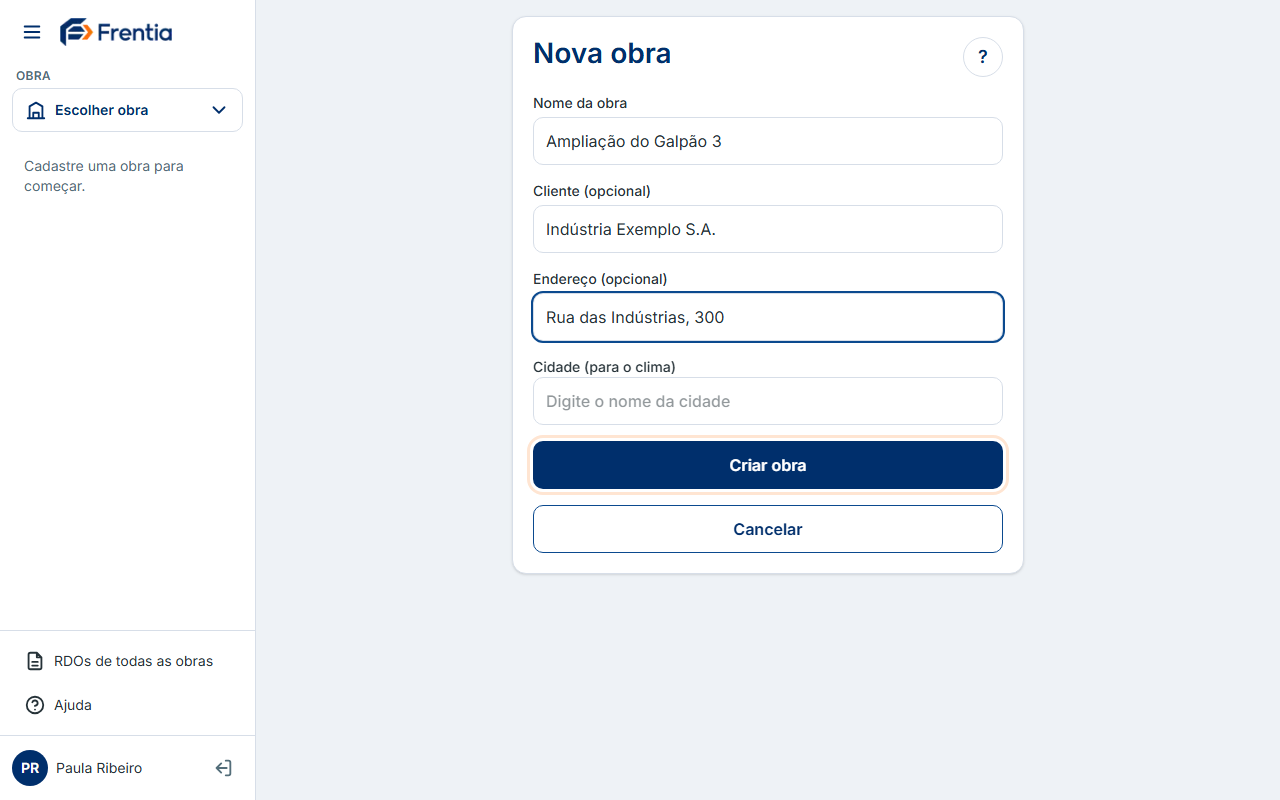
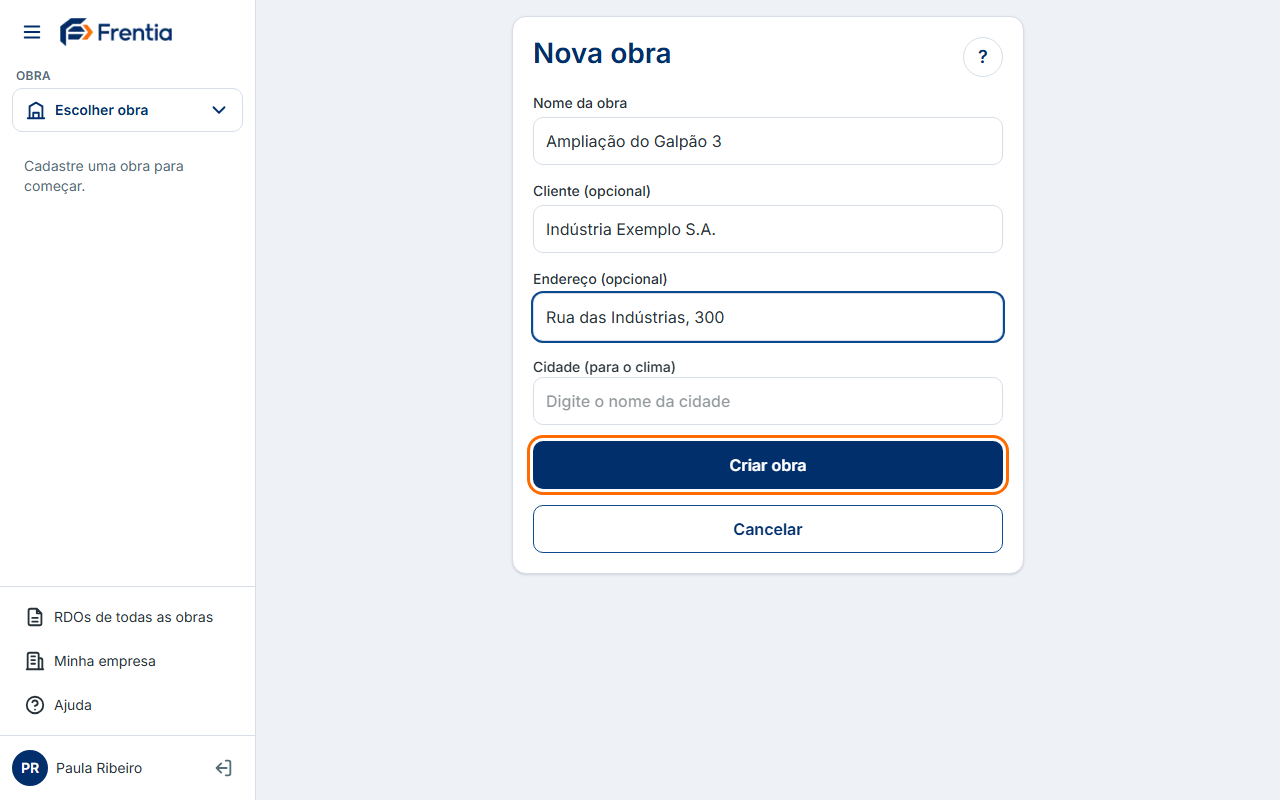
feat(empresa): página Minha empresa no menu, manual e novidades (7.5)

diff --git a/components/navegacao/MenuLateral.tsx b/components/navegacao/MenuLateral.tsx
@@ -32,7 +32,8 @@ const ICONE_MENU = "M4 6h16M4 12h16M4 18h16";
 const ICONE_FECHAR = "M6 6l12 12M18 6L6 18";
 const ICONE_MAIS = "M12 5v14M5 12h14";
 const ICONE_RDO = "M14 3H7a2 2 0 0 0-2 2v14a2 2 0 0 0 2 2h10a2 2 0 0 0 2-2V8zM14 3v5h5M9 13h6M9 17h6";
-const ICONE_AJUDA = "M12 21a9 9 0 1 0 0-18 9 9 0 0 0 0 18zM9.1 9a3 3 0 0 1 5.8 1c0 2-3 3-3 3M12 17h.01";
+const ICONE_EMPRESA = "M4 21V5a2 2 0 0 1 2-2h8a2 2 0 0 1 2 2v16M16 9h2a2 2 0 0 1 2 2v10M3 21h18M8 7h4M8 11h4M8 15h4";
+const ICONE_AJUDA ="M12 21a9 9 0 1 0 0-18 9 9 0 0 0 0 18zM9.1 9a3 3 0 0 1 5.8 1c0 2-3 3-3 3M12 17h.01";
 const ICONE_OBRA = "M3 21h18M5 21V8l7-4 7 4v13M9 21v-6h6v6";
 const ICONE_SETA = "M6 9l6 6 6-6";
 const ICONE_LISTA = "M8 6h13M8 12h13M8 18h13M3 6h.01M3 12h.01M3 18h.01";
@@ -57,6 +58,7 @@ export function MenuLateral({ obras, nome, recolhidoInicial, children }: Props) 
   const etapaAtiva = etapaDoCaminho(caminho);
   const naRdos = caminho === "/rdos";
   const emAjuda = naAjuda(caminho);
+  const naEmpresa = caminho === "/empresa";
 
   useEffect(() => {
     if (!aberto) return;
@@ -153,6 +155,13 @@ export function MenuLateral({ obras, nome, recolhidoInicial, children }: Props) 
               ${recolhido ? "md:h-10 md:w-10 md:justify-center md:px-0" : ""}`}>
             <Icone d={ICONE_RDO} />
             <span className={rotulo}>RDOs de todas as obras</span>
+          </Link>
+          <Link href="/empresa" onClick={fechar} title={recolhido ? "Minha empresa" : undefined} aria-current={naEmpresa ? "page" : undefined}
+            className={`flex min-h-11 items-center gap-2 rounded-botao px-3 text-sm ${foco}
+              ${naEmpresa ? "bg-primaria-clara font-semibold text-primaria" : "text-texto hover:bg-fundo"}
+              ${recolhido ? "md:h-10 md:w-10 md:justify-center md:px-0" : ""}`}>
+            <Icone d={ICONE_EMPRESA} />
+            <span className={rotulo}>Minha empresa</span>
           </Link>
           <Link href="/ajuda" onClick={fechar} title={recolhido ? "Ajuda" : undefined} aria-current={emAjuda ? "page" : undefined}
             className={`flex min-h-11 items-center gap-2 rounded-botao px-3 text-sm ${foco}

diff --git a/tests/e2e/minha-empresa.spec.ts b/tests/e2e/minha-empresa.spec.ts
@@ -1,0 +1,31 @@
+import { expect, test } from "@playwright/test";
+import { criarUsuarioTeste, removerUsuarioTeste, type UsuarioTeste } from "../integracao/ajuda";
+
+test.skip(process.env.SUPABASE_TEST !== "1", "E2E usa o Supabase de desenvolvimento (SUPABASE_TEST=1)");
+
+let u: UsuarioTeste | undefined;
+test.afterAll(async () => {
+  if (u) await removerUsuarioTeste(u.userId);
+});
+
+test("Minha empresa: troca o nome, salva sozinho e exige o nome", async ({ page }) => {
+  test.setTimeout(90_000);
+  u = await criarUsuarioTeste();
+  await page.goto("/login");
+  await page.getByLabel("E-mail").fill(u.email);
+  await page.getByLabel("Senha").fill(u.senha);
+  await page.getByRole("button", { name: "Entrar" }).click();
+  await page.waitForURL("**/obras");
+
+  await page.getByRole("link", { name: "Minha empresa" }).click();
+  await page.waitForURL("**/empresa");
+  await expect(page.getByText("Trocar o logo do Frentia pelo da sua empresa: disponível no plano pago (em breve)")).toBeVisible();
+  const campo = page.getByLabel("Nome da empresa (aparece no RDO)");
+  await campo.fill("Construtora Aurora");
+  await expect(page.getByText("Salvo ✓")).toBeVisible();
+  await page.reload();
+  await expect(page.getByLabel("Nome da empresa (aparece no RDO)")).toHaveValue("Construtora Aurora");
+
+  await page.getByLabel("Nome da empresa (aparece no RDO)").fill("");
+  await expect(page.getByText("Informe o nome da empresa.")).toBeVisible();
+});

diff --git a/app/(app)/empresa/NomeEmpresa.tsx b/app/(app)/empresa/NomeEmpresa.tsx
@@ -1,0 +1,25 @@
+"use client";
+
+import { useState } from "react";
+import { IndicadorSalvo } from "@/components/execucao/IndicadorSalvo";
+import { useAutoSalvar } from "@/components/execucao/useAutoSalvar";
+import { LIMITES } from "@/lib/db/validacao";
+import { salvarNomeEmpresaAcao } from "./acoes";
+
+const campo =
+  "min-h-12 w-full rounded-botao border border-borda bg-superficie px-3 text-base text-texto focus-visible:outline-2 focus-visible:outline-operacional";
+
+/** Nome que sai no cabeçalho de todo RDO; salva sozinho. */
+export function NomeEmpresa({ inicial }: { inicial: string }) {
+  const [valor, setValor] = useState(inicial);
+  const salvar = useAutoSalvar(() => salvarNomeEmpresaAcao(valor), [valor.trim()]);
+  return (
+    <div className="flex flex-col gap-2">
+      <label className="text-sm font-medium">
+        Nome da empresa (aparece no RDO)
+        <input type="text" className={campo} value={valor} maxLength={LIMITES.empresa} onChange={(e) => setValor(e.target.value)} />
+      </label>
+      <IndicadorSalvo {...salvar} dica="Salva sozinho." />
+    </div>
+  );
+}

diff --git a/app/(app)/empresa/page.tsx b/app/(app)/empresa/page.tsx
@@ -1,0 +1,22 @@
+import { Aviso } from "@/components/ui/Aviso";
+import { Cartao } from "@/components/ui/Cartao";
+import { obterNomeEmpresa } from "@/lib/db/empresas";
+import { criarClienteServidor } from "@/lib/supabase/servidor";
+import { NomeEmpresa } from "./NomeEmpresa";
+
+export default async function EmpresaPage() {
+  const nome = await obterNomeEmpresa(await criarClienteServidor());
+  return (
+    <div className="flex min-w-0 max-w-xl flex-col gap-4">
+      <h1 className="text-titulo font-semibold text-primaria">Minha empresa</h1>
+      {nome === null ? (
+        <Aviso tom="perigo">Não foi possível carregar a empresa. Tente novamente.</Aviso>
+      ) : (
+        <Cartao className="flex flex-col gap-4">
+          <NomeEmpresa inicial={nome} />
+          <Aviso tom="info">Trocar o logo do Frentia pelo da sua empresa: disponível no plano pago (em breve)</Aviso>
+        </Cartao>
+      )}
+    </div>
+  );
+}

diff --git a/lib/ajuda/conteudo/primeiros-passos.ts b/lib/ajuda/conteudo/primeiros-passos.ts
@@ -16,6 +16,19 @@ export const primeirosPassos: Capitulo = {
       dica: "Quem tem login é o planejador. Os responsáveis de campo não precisam de conta: eles usam o link do turno.",
     },
     {
+      id: "minha-empresa",
+      titulo: "Confira o nome da empresa",
+      texto: [
+        "No menu lateral, \"Minha empresa\" mostra o nome que aparece no cabeçalho de todas as páginas do RDO. Para corrigir, digite o nome novo em \"Nome da empresa (aparece no RDO)\": salva sozinho.",
+        "RDOs já emitidos também saem com o nome novo quando você baixar de novo.",
+      ],
+      captura: {
+        alt: "Página Minha empresa com o campo do nome da empresa",
+        alvo: { papel: "textbox", nome: "Nome da empresa (aparece no RDO)" },
+        dispositivo: "computador",
+      },
+    },
+    {
       id: "criar-obra",
       titulo: "Crie a obra",
       texto: [

diff --git a/lib/ajuda/novidades.ts b/lib/ajuda/novidades.ts
@@ -3,6 +3,11 @@ import type { Novidade } from "./tipos";
 
 export const NOVIDADES: Novidade[] = [
   {
+    data: "2026-11-27",
+    texto: "O RDO agora traz o nome da sua empresa no cabeçalho de todas as páginas. Para corrigir o nome, use \"Minha empresa\" no menu lateral.",
+    href: "/ajuda/primeiros-passos#minha-empresa",
+  },
+  {
     data: "2026-11-26",
     texto: "Quadro mostra quem espera quem: equipe parada \"Aguardando outra equipe\" ganha \"⏳ Aguardando …\" no cartão, a equipe aguardada vê quem a espera e sobe para o alto do quadro.",
     href: "/ajuda/quadro-tv#visoes",

diff --git a/tests/manual/capturas.spec.ts b/tests/manual/capturas.spec.ts
@@ -52,6 +52,10 @@ test("capturas do manual", async ({ browser, page: pl, request }) => {
   };
 
   // ---------- Primeiros passos ----------
+  await pl.goto("/empresa");
+  await pl.getByLabel("Nome da empresa (aparece no RDO)").fill("Montagens Exemplo Ltda");
+  await expect(pl.getByText("Salvo ✓")).toBeVisible();
+  await fotografar(pl, "primeiros-passos", "minha-empresa");
   await pl.goto("/obras/nova");
   await pl.getByLabel("Nome da obra").fill(OBRA.nome);
   await pl.getByLabel("Cliente (opcional)").fill(OBRA.cliente);

diff --git a/app/(app)/empresa/acoes.ts b/app/(app)/empresa/acoes.ts
@@ -1,0 +1,9 @@
+"use server";
+
+import { editarNomeEmpresa } from "@/lib/db/empresas";
+import type { Resultado } from "@/lib/db/resultado";
+import { criarClienteServidor } from "@/lib/supabase/servidor";
+
+export async function salvarNomeEmpresaAcao(nome: string): Promise<Resultado<{ nome: string }>> {
+  return editarNomeEmpresa(await criarClienteServidor(), nome);
+}
